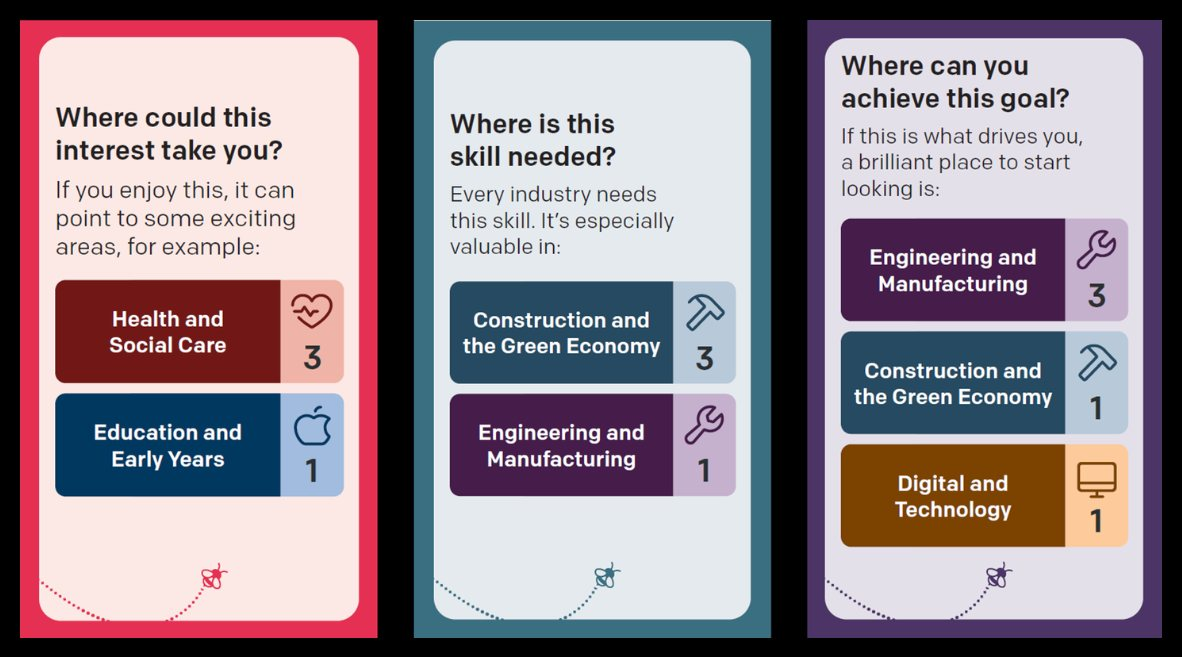
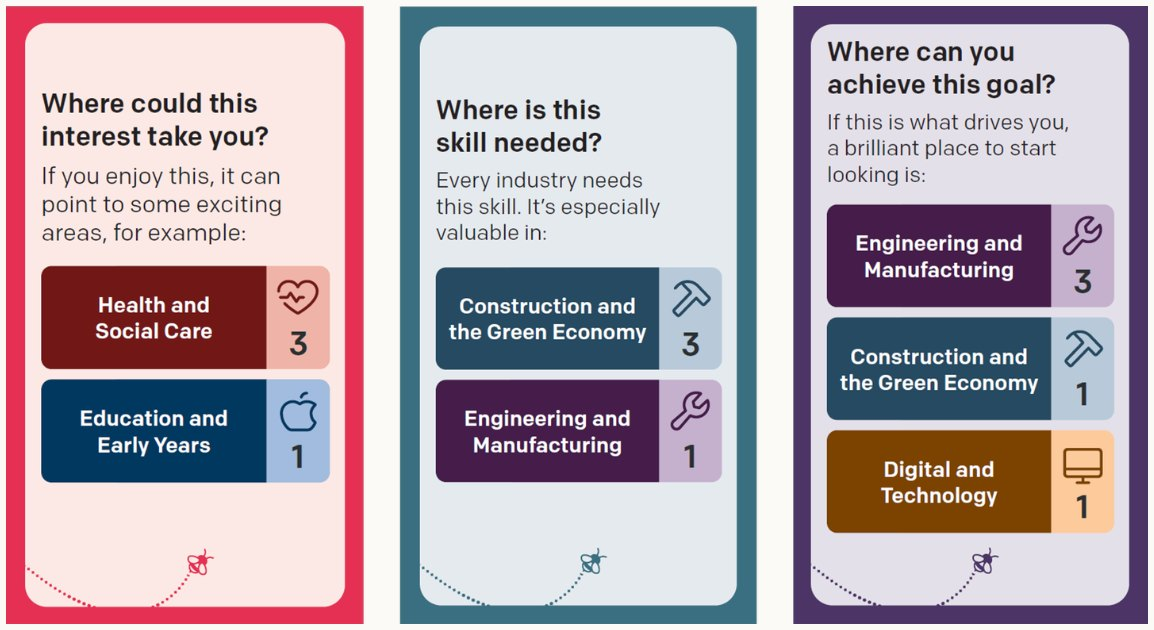
Update

diff --git a/beeline.html b/beeline.html
@@ -50,8 +50,8 @@ a{color:#1e1e1e}a:hover{color:#5d4f78}
 <div style="display: flex; flex-direction: column; gap: 6px"><span style="font-family: 'Silkscreen', monospace; font-size: 12px; letter-spacing: 0.08em; color: #5f5b52">SHIPPED · LIVE ON GMACS.CO.UK</span><h2 id="shipped-h" style="margin: 0; font-size: 36px; font-weight: 600">The Discovery Quiz and the Discovery Game</h2></div>
 <p style="margin: 0; font-size: 18px; line-height: 1.55; max-width: 64ch; color: #2e2c28">A young person aged 14 to 18 answers four questions about what they enjoy, what they feel confident about and what matters to them in work, and sees three gateways to explore, with the jobs inside each. The same questions run offline as a card game for groups, and every gateway card opens the gateway online.</p>
 <div role="group" aria-label="Screens, scroll sideways" tabindex="0" style="display: flex; gap: 18px; overflow-x: auto; scroll-snap-type: x mandatory; padding: 4px 4px 10px"><figure style="margin: 0; display: flex; flex-direction: column; gap: 8px; flex: 0 0 min(84%, 440px); scroll-snap-align: start"><div style="border: 2px solid #1e1e1e; background: #fbfaf6; padding: 8px"><img src="assets/img/bl-quiz-1.jpg" alt="Beeline Discovery Quiz, step 1 of 4, on gmacs.co.uk. A yellow panel says there are no wrong answers and asks the young person’s age, as three buttons, and their borough, from a dropdown." loading="lazy" style="width: 100%; height: auto; display: block"></div><figcaption style="display: flex; flex-direction: column; gap: 2px"><span style="font-family: 'Silkscreen', monospace; font-size: 10px; letter-spacing: 0.06em; color: #5f5b52">STEP 1 OF 4</span><span style="font-size: 15px; line-height: 1.45; color: #2e2c28">Age and borough, with a line that there are no wrong answers.</span></figcaption></figure><figure style="margin: 0; display: flex; flex-direction: column; gap: 8px; flex: 0 0 min(84%, 440px); scroll-snap-align: start"><div style="border: 2px solid #1e1e1e; background: #fbfaf6; padding: 8px"><img src="assets/img/bl-quiz-2.jpg" alt="Quiz step 2: What do you enjoy most? Six statement cards, such as I am drawn to situations where I can help or support someone." loading="lazy" style="width: 100%; height: auto; display: block"></div><figcaption style="display: flex; flex-direction: column; gap: 2px"><span style="font-family: 'Silkscreen', monospace; font-size: 10px; letter-spacing: 0.06em; color: #5f5b52">STEP 2</span><span style="font-size: 15px; line-height: 1.45; color: #2e2c28">What a young person enjoys: six statements, one pick.</span></figcaption></figure><figure style="margin: 0; display: flex; flex-direction: column; gap: 8px; flex: 0 0 min(84%, 440px); scroll-snap-align: start"><div style="border: 2px solid #1e1e1e; background: #fbfaf6; padding: 8px"><img src="assets/img/bl-quiz-3.jpg" alt="Quiz step 3: Which of these are you most confident about? Six statement cards, such as I can get people on my side when I explain an idea." loading="lazy" style="width: 100%; height: auto; display: block"></div><figcaption style="display: flex; flex-direction: column; gap: 2px"><span style="font-family: 'Silkscreen', monospace; font-size: 10px; letter-spacing: 0.06em; color: #5f5b52">STEP 3</span><span style="font-size: 15px; line-height: 1.45; color: #2e2c28">What they feel confident about.</span></figcaption></figure><figure style="margin: 0; display: flex; flex-direction: column; gap: 8px; flex: 0 0 min(84%, 440px); scroll-snap-align: start"><div style="border: 2px solid #1e1e1e; background: #fbfaf6; padding: 8px"><img src="assets/img/bl-quiz-4.jpg" alt="Quiz step 4: In the future, what is important to you when you think of work? Six statement cards and a Submit answers button." loading="lazy" style="width: 100%; height: auto; display: block"></div><figcaption style="display: flex; flex-direction: column; gap: 2px"><span style="font-family: 'Silkscreen', monospace; font-size: 10px; letter-spacing: 0.06em; color: #5f5b52">STEP 4</span><span style="font-size: 15px; line-height: 1.45; color: #2e2c28">What matters to them in work.</span></figcaption></figure><figure style="margin: 0; display: flex; flex-direction: column; gap: 8px; flex: 0 0 min(84%, 440px); scroll-snap-align: start"><div style="border: 2px solid #1e1e1e; background: #fbfaf6; padding: 8px"><img src="assets/img/bl-quiz-results.jpg" alt="Quiz results: three gateways to explore, Education and Early Years, Creative, Culture and Sport, and Construction and the Green Economy, with a Download next steps button and links to see all gateways or restart the quiz." loading="lazy" style="width: 100%; height: auto; display: block"></div><figcaption style="display: flex; flex-direction: column; gap: 2px"><span style="font-family: 'Silkscreen', monospace; font-size: 10px; letter-spacing: 0.06em; color: #5f5b52">RESULTS</span><span style="font-size: 15px; line-height: 1.45; color: #2e2c28">Three gateways to explore, a Next Steps download, and an invitation to retake the quiz for different results.</span></figcaption></figure></div>
-<div style="display: grid; grid-template-columns: repeat(auto-fit, minmax(min(100%, 300px), 1fr)); gap: 18px; align-items: start"><figure style="margin: 0; display: flex; flex-direction: column; gap: 8px"><div style="border: 2px solid #1e1e1e; background: #fbfaf6; padding: 8px"><img src="assets/img/bl-game-interests.jpg" alt="Six Discovery Game interest cards in pink, numbered 1 to 6, each a first-person statement such as I like being hands-on and building physical things." loading="lazy" style="width: 100%; height: auto; display: block"></div><figcaption style="display: flex; flex-direction: column; gap: 2px"><span style="font-family: 'Silkscreen', monospace; font-size: 10px; letter-spacing: 0.06em; color: #5f5b52">CARD FRONTS</span><span style="font-size: 15px; line-height: 1.45; color: #2e2c28">Six first-person statements for each of interests, skills and ambitions.</span></figcaption></figure><figure style="margin: 0; display: flex; flex-direction: column; gap: 8px"><div style="border: 2px solid #1e1e1e; background: #fbfaf6; padding: 8px"><img src="assets/img/bl-game-backs.jpg" alt="Three card backs. Each lists the gateways the statement points to, scored 3 or 1, under a question such as Where could this interest take you?" loading="lazy" style="width: 100%; height: auto; display: block"></div><figcaption style="display: flex; flex-direction: column; gap: 2px"><span style="font-family: 'Silkscreen', monospace; font-size: 10px; letter-spacing: 0.06em; color: #5f5b52">CARD BACKS</span><span style="font-size: 15px; line-height: 1.45; color: #2e2c28">Each back points to gateways with a 3 or a 1. Every 0 was taken off after young people said a 0 read as ‘not for you’.</span></figcaption></figure><figure style="margin: 0; display: flex; flex-direction: column; gap: 8px"><div style="border: 2px solid #1e1e1e; background: #fbfaf6; padding: 8px"><img src="assets/img/bl-game-gateways.jpg" alt="Six gateway panels in muted colours, such as Digital and Technology and Education and Early Years. Each describes the sector in plain English, lists example jobs, and carries a QR code to unlock the gateway online." loading="lazy" style="width: 100%; height: auto; display: block"></div><figcaption style="display: flex; flex-direction: column; gap: 2px"><span style="font-family: 'Silkscreen', monospace; font-size: 10px; letter-spacing: 0.06em; color: #5f5b52">GATEWAY PANELS</span><span style="font-size: 15px; line-height: 1.45; color: #2e2c28">Plain English after a reading-age review, the jobs inside each gateway named, and a QR code into the gateway online.</span></figcaption></figure></div>
-<div role="group" aria-label="Outcomes" style="display: grid; grid-template-columns: repeat(auto-fit, minmax(min(100%, 220px), 1fr)); border-top: 2px solid #1e1e1e; border-bottom: 2px solid #1e1e1e; background: #fbfaf6"><div style="padding: 14px 16px; display: flex; flex-direction: column; gap: 4px; border-right: 1px dashed #c9c4b6"><span style="font-size: 34px; font-weight: 600; line-height: 1.05; letter-spacing: -0.01em">8 July 2026</span><span style="font-family: 'Silkscreen', monospace; font-size: 10px; letter-spacing: 0.06em; color: #5f5b52">RELEASED</span><span style="font-size: 15px; line-height: 1.45; color: #2e2c28">Phase 1 launched at the MBacc Summit.</span></div><div style="padding: 14px 16px; display: flex; flex-direction: column; gap: 4px; border-right: 1px dashed #c9c4b6"><span style="font-size: 34px; font-weight: 600; line-height: 1.05; letter-spacing: -0.01em">234</span><span style="font-family: 'Silkscreen', monospace; font-size: 10px; letter-spacing: 0.06em; color: #5f5b52">DECKS OUT</span><span style="font-size: 15px; line-height: 1.45; color: #2e2c28">Card decks distributed to 68 organisations, 200 of them at the Summit.</span></div><div style="padding: 14px 16px; display: flex; flex-direction: column; gap: 4px; border-right: 1px dashed #c9c4b6"><span style="font-size: 34px; font-weight: 600; line-height: 1.05; letter-spacing: -0.01em">5.4 vs 2.4</span><span style="font-family: 'Silkscreen', monospace; font-size: 10px; letter-spacing: 0.06em; color: #5f5b52">JOB SEARCHES</span><span style="font-size: 15px; line-height: 1.45; color: #2e2c28">Job searches opened by each quiz finisher, against 2.4 from the landing page.</span></div><div style="padding: 14px 16px; display: flex; flex-direction: column; gap: 4px; border-right: 1px dashed #c9c4b6"><span style="font-size: 34px; font-weight: 600; line-height: 1.05; letter-spacing: -0.01em">20.9% → 17.2%</span><span style="font-family: 'Silkscreen', monospace; font-size: 10px; letter-spacing: 0.06em; color: #5f5b52">POSITION BIAS</span><span style="font-size: 15px; line-height: 1.45; color: #2e2c28">Sessions comparing two or more gateways once the card order was randomised (p &lt; 0.001).</span></div></div>
+<div style="display: flex; flex-direction: column; gap: 18px"><div style="display: grid; grid-template-columns: repeat(auto-fit, minmax(min(100%, 340px), 1fr)); gap: 18px; align-items: end"><figure style="margin: 0; display: flex; flex-direction: column; gap: 8px"><div style="border: 2px solid #1e1e1e; background: #fbfaf6; padding: 8px"><img src="assets/img/bl-game-backs.jpg" alt="Three card backs. Each lists the gateways the statement points to, scored 3 or 1, under a question such as Where could this interest take you?" loading="lazy" style="width: 100%; height: auto; display: block"></div><figcaption style="display: flex; flex-direction: column; gap: 2px"><span style="font-family: 'Silkscreen', monospace; font-size: 10px; letter-spacing: 0.06em; color: #5f5b52">CARD BACKS</span><span style="font-size: 15px; line-height: 1.45; color: #2e2c28">Each back points to gateways with a 3 or a 1. Every 0 was taken off after young people said a 0 read as ‘not for you’.</span></figcaption></figure><figure style="margin: 0; display: flex; flex-direction: column; gap: 8px"><div style="border: 2px solid #1e1e1e; background: #fbfaf6; padding: 8px"><img src="assets/img/bl-game-gateways.jpg" alt="Six gateway panels in muted colours, such as Digital and Technology and Education and Early Years. Each describes the sector in plain English, lists example jobs, and carries a QR code to unlock the gateway online." loading="lazy" style="width: 100%; height: auto; display: block"></div><figcaption style="display: flex; flex-direction: column; gap: 2px"><span style="font-family: 'Silkscreen', monospace; font-size: 10px; letter-spacing: 0.06em; color: #5f5b52">GATEWAY PANELS</span><span style="font-size: 15px; line-height: 1.45; color: #2e2c28">Plain English after a reading-age review, the jobs inside each gateway named, and a QR code into the gateway online.</span></figcaption></figure></div><figure style="margin: 0; display: flex; flex-direction: column; gap: 8px"><div style="border: 2px solid #1e1e1e; background: #fbfaf6; padding: 8px"><img src="assets/img/bl-game-interests.jpg" alt="Six Discovery Game interest cards in pink, numbered 1 to 6, each a first-person statement such as I like being hands-on and building physical things." loading="lazy" style="width: 100%; height: auto; display: block"></div><figcaption style="display: flex; flex-direction: column; gap: 2px"><span style="font-family: 'Silkscreen', monospace; font-size: 10px; letter-spacing: 0.06em; color: #5f5b52">CARD FRONTS</span><span style="font-size: 15px; line-height: 1.45; color: #2e2c28">Six first-person statements for each of interests, skills and ambitions.</span></figcaption></figure></div>
+<div role="group" aria-label="Outcomes" style="display: grid; grid-template-columns: repeat(auto-fit, minmax(min(100%, 220px), 1fr)); border-top: 2px solid #1e1e1e; border-bottom: 2px solid #1e1e1e; background: #fbfaf6"><div style="padding: 14px 16px; display: flex; flex-direction: column; gap: 4px; border-right: 1px dashed #c9c4b6"><span style="font-size: 34px; font-weight: 600; line-height: 1.05; letter-spacing: -0.01em">8 July 2026</span><span style="font-family: 'Silkscreen', monospace; font-size: 10px; letter-spacing: 0.06em; color: #5f5b52">RELEASED</span><span style="font-size: 15px; line-height: 1.45; color: #2e2c28">Phase 1 launched at the MBacc Summit.</span></div><div style="padding: 14px 16px; display: flex; flex-direction: column; gap: 4px; border-right: 1px dashed #c9c4b6"><span style="font-size: 34px; font-weight: 600; line-height: 1.05; letter-spacing: -0.01em">410</span><span style="font-family: 'Silkscreen', monospace; font-size: 10px; letter-spacing: 0.06em; color: #5f5b52">DECKS OUT</span><span style="font-size: 15px; line-height: 1.45; color: #2e2c28">Card decks out across all ten boroughs. Requests came from the Summit and by word of mouth.</span></div><div style="padding: 14px 16px; display: flex; flex-direction: column; gap: 4px; border-right: 1px dashed #c9c4b6"><span style="font-size: 34px; font-weight: 600; line-height: 1.05; letter-spacing: -0.01em">5.4 vs 2.4</span><span style="font-family: 'Silkscreen', monospace; font-size: 10px; letter-spacing: 0.06em; color: #5f5b52">JOB SEARCHES</span><span style="font-size: 15px; line-height: 1.45; color: #2e2c28">Job searches opened by each quiz finisher, against 2.4 from the landing page.</span></div><div style="padding: 14px 16px; display: flex; flex-direction: column; gap: 4px; border-right: 1px dashed #c9c4b6"><span style="font-size: 34px; font-weight: 600; line-height: 1.05; letter-spacing: -0.01em">20.9% → 17.2%</span><span style="font-family: 'Silkscreen', monospace; font-size: 10px; letter-spacing: 0.06em; color: #5f5b52">POSITION BIAS</span><span style="font-size: 15px; line-height: 1.45; color: #2e2c28">Sessions comparing two or more gateways once the card order was randomised (p &lt; 0.001).</span></div></div>
 </section>
 
 <section aria-labelledby="said-h" style="display: flex; flex-direction: column; gap: 18px">
